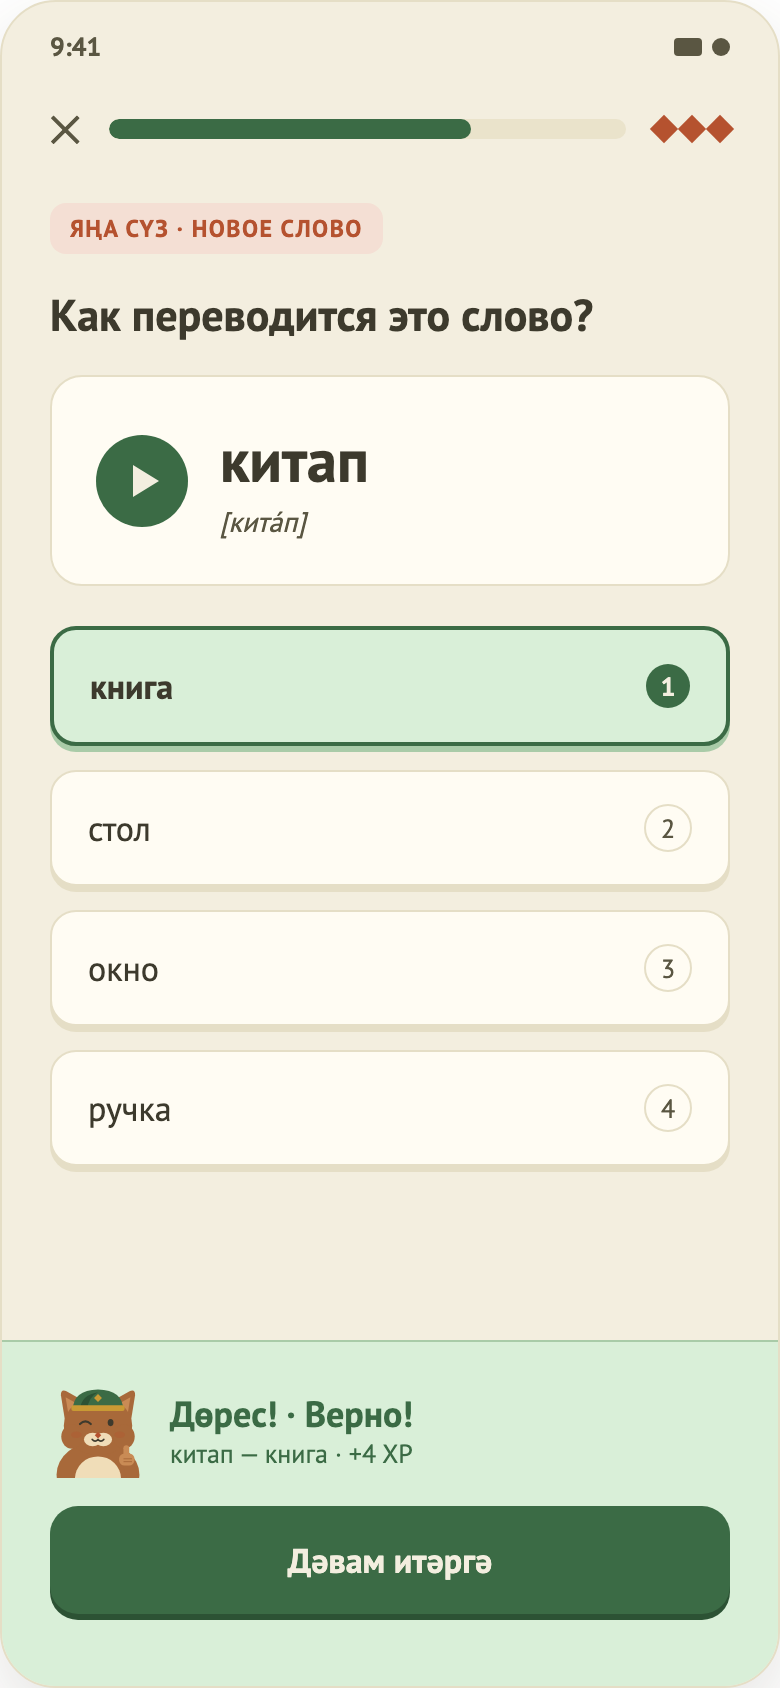
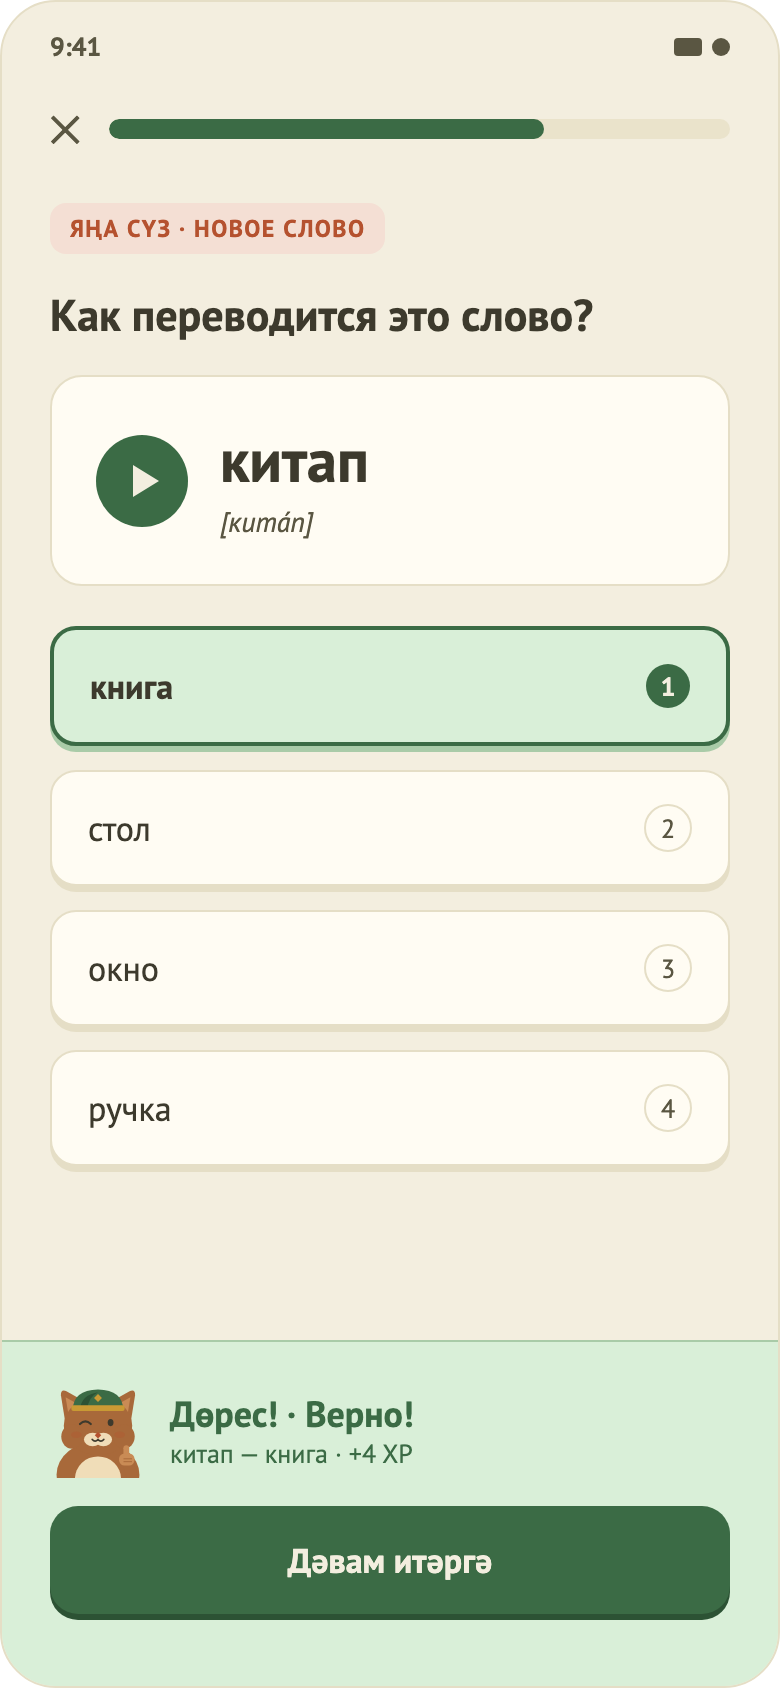
Remove lives from lesson screens in design

diff --git a/design/Tatar App Screens.dc.html b/design/Tatar App Screens.dc.html
@@ -100,7 +100,7 @@
         <div style="padding:16px 24px 0;display:flex;align-items:center;gap:14px">
           <div style="font-size:20px;color:#5A5642">✕</div>
           <div style="flex:1;height:10px;border-radius:5px;background:#EAE3CB;overflow:hidden"><div style="width:30%;height:100%;background:#3B6B45;border-radius:5px"></div></div>
-          <div style="display:flex;gap:4px;align-items:center"><div style="width:10px;height:10px;background:#B5522F;transform:rotate(45deg)"></div><div style="width:10px;height:10px;background:#B5522F;transform:rotate(45deg)"></div><div style="width:10px;height:10px;background:#B5522F;transform:rotate(45deg)"></div></div>
+          
         </div>
         <div style="padding:24px 24px 0;display:flex;flex-direction:column;gap:16px">
           <div style="align-self:flex-start;background:#D9EFD8;color:#3B6B45;font-size:12px;font-weight:700;text-transform:uppercase;letter-spacing:.06em;border-radius:8px;padding:5px 10px">Тыңла · аудирование</div>
@@ -140,7 +140,7 @@
         <div style="padding:16px 24px 0;display:flex;align-items:center;gap:14px">
           <div style="font-size:20px;color:#5A5642">✕</div>
           <div style="flex:1;height:10px;border-radius:5px;background:#EAE3CB;overflow:hidden"><div style="width:55%;height:100%;background:#3B6B45;border-radius:5px"></div></div>
-          <div style="display:flex;gap:4px;align-items:center"><div style="width:10px;height:10px;background:#B5522F;transform:rotate(45deg)"></div><div style="width:10px;height:10px;background:#B5522F;transform:rotate(45deg)"></div><div style="width:10px;height:10px;background:#E5DEC6;transform:rotate(45deg)"></div></div>
+          
         </div>
         <div style="padding:24px 24px 0;display:flex;flex-direction:column;gap:16px">
           <div style="align-self:flex-start;background:#F4DFD4;color:#B5522F;font-size:12px;font-weight:700;text-transform:uppercase;letter-spacing:.06em;border-radius:8px;padding:5px 10px">Җөмлә төзе · сборка</div>
@@ -175,7 +175,7 @@
         <div style="padding:16px 24px 0;display:flex;align-items:center;gap:14px">
           <div style="font-size:20px;color:#5A5642">✕</div>
           <div style="flex:1;height:10px;border-radius:5px;background:#EAE3CB;overflow:hidden"><div style="width:85%;height:100%;background:#3B6B45;border-radius:5px"></div></div>
-          <div style="display:flex;gap:4px;align-items:center"><div style="width:10px;height:10px;background:#B5522F;transform:rotate(45deg)"></div><div style="width:10px;height:10px;background:#B5522F;transform:rotate(45deg)"></div><div style="width:10px;height:10px;background:#B5522F;transform:rotate(45deg)"></div></div>
+          
         </div>
         <div style="padding:24px 24px 0;display:flex;flex-direction:column;gap:16px">
           <div style="align-self:flex-start;background:#EFE6C8;color:#8A6F1F;font-size:12px;font-weight:700;text-transform:uppercase;letter-spacing:.06em;border-radius:8px;padding:5px 10px">Яз · письмо</div>
@@ -434,7 +434,7 @@
         <div style="padding:16px 24px 0;display:flex;align-items:center;gap:14px">
           <div style="font-size:20px;color:#5A5642">✕</div>
           <div style="flex:1;height:10px;border-radius:5px;background:#EAE3CB;overflow:hidden"><div style="width:45%;height:100%;background:#3B6B45;border-radius:5px"></div></div>
-          <div style="display:flex;gap:4px;align-items:center"><div style="width:10px;height:10px;background:#B5522F;transform:rotate(45deg)"></div><div style="width:10px;height:10px;background:#B5522F;transform:rotate(45deg)"></div><div style="width:10px;height:10px;background:#E5DEC6;transform:rotate(45deg)"></div></div>
+          
         </div>
         <div style="padding:24px 24px 0;display:flex;flex-direction:column;gap:6px">
           <div style="font-size:22px;font-weight:700">Сүзләрне парлаштыр</div>
@@ -470,7 +470,7 @@
         <div style="padding:16px 24px 0;display:flex;align-items:center;gap:14px">
           <div style="font-size:20px;color:#5A5642">✕</div>
           <div style="flex:1;height:10px;border-radius:5px;background:#EAE3CB;overflow:hidden"><div style="width:70%;height:100%;background:#3B6B45;border-radius:5px"></div></div>
-          <div style="display:flex;gap:4px;align-items:center"><div style="width:10px;height:10px;background:#B5522F;transform:rotate(45deg)"></div><div style="width:10px;height:10px;background:#B5522F;transform:rotate(45deg)"></div><div style="width:10px;height:10px;background:#B5522F;transform:rotate(45deg)"></div></div>
+          
         </div>
         <div style="padding:24px 24px 0;display:flex;flex-direction:column;gap:16px">
           <div style="align-self:flex-start;background:#F4DFD4;color:#B5522F;font-size:12px;font-weight:700;text-transform:uppercase;letter-spacing:.06em;border-radius:8px;padding:5px 10px">Яңа сүз · новое слово</div>
